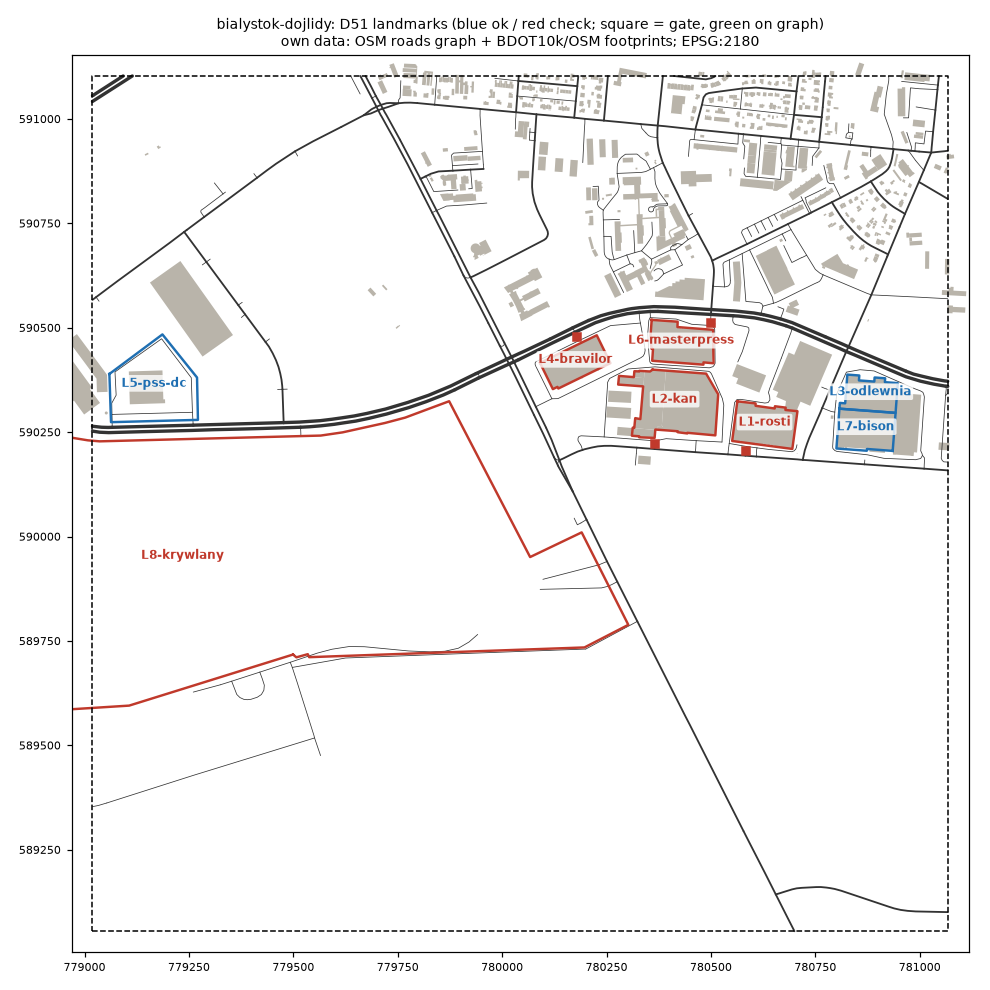
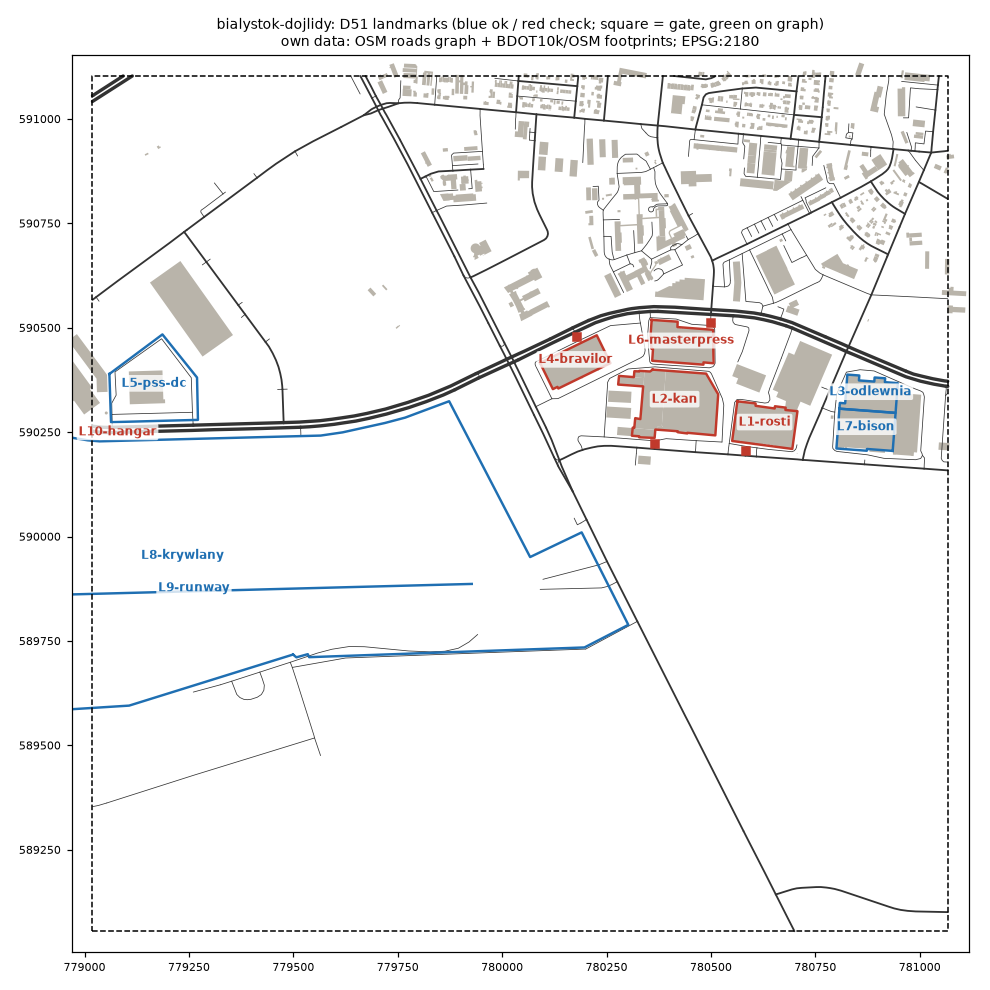
wip(region-0166): landmarks: overlap matching, Mistral P12 airfield candidates (UNVERIFIED)

diff --git a/tools/worldgen/qa/region_landmarks.py b/tools/worldgen/qa/region_landmarks.py
@@ -106,7 +106,10 @@ def build(region_id: str) -> dict:
         rec["centroid_epsg2180"] = [round(geom.centroid.x, 2), round(geom.centroid.y, 2)]
         rec["area_m2"] = round(geom.area, 1)
         rec["in_tile_fraction"] = round(inter.area / geom.area, 3) if geom.area > 0 else (1.0 if inter.length else 0.0)
-        hits = sorted((p for p, b in bgeo if geom.area > 0 and geom.contains(b.centroid)), key=lambda p: p["id"])
+        # a building belongs to the landmark when its centroid lies inside or >= 50 % of its footprint overlaps
+        hits = sorted((p for p, b in bgeo if geom.area > 0 and geom.intersects(b)
+                       and (geom.contains(b.centroid) or geom.intersection(b).area >= 0.5 * b.area)),
+                      key=lambda p: p["id"])
         rec["our_buildings"] = {"count": len(hits), "ids": [p["id"] for p in hits][:40],
                                 "area_m2": round(sum(p["area_m2"] or 0 for p in hits), 1),
                                 "height_m_range": ([min(p["height_m"] for p in hits), max(p["height_m"] for p in hits)]
@@ -126,7 +129,7 @@ def build(region_id: str) -> dict:
         flags = []
         if rec["in_tile_fraction"] < 0.5:
             flags.append("mostly_outside_tile")
-        if geom.area > 0 and not hits:
+        if geom.area > 0 and not hits and "building" in w["tags"]:     # an OSM building with no footprint of ours
             flags.append("no_building_in_polygon")
         if rec.get("gate") and not rec["gate"]["in_graph"]:
             flags.append("gate_not_in_graph")
